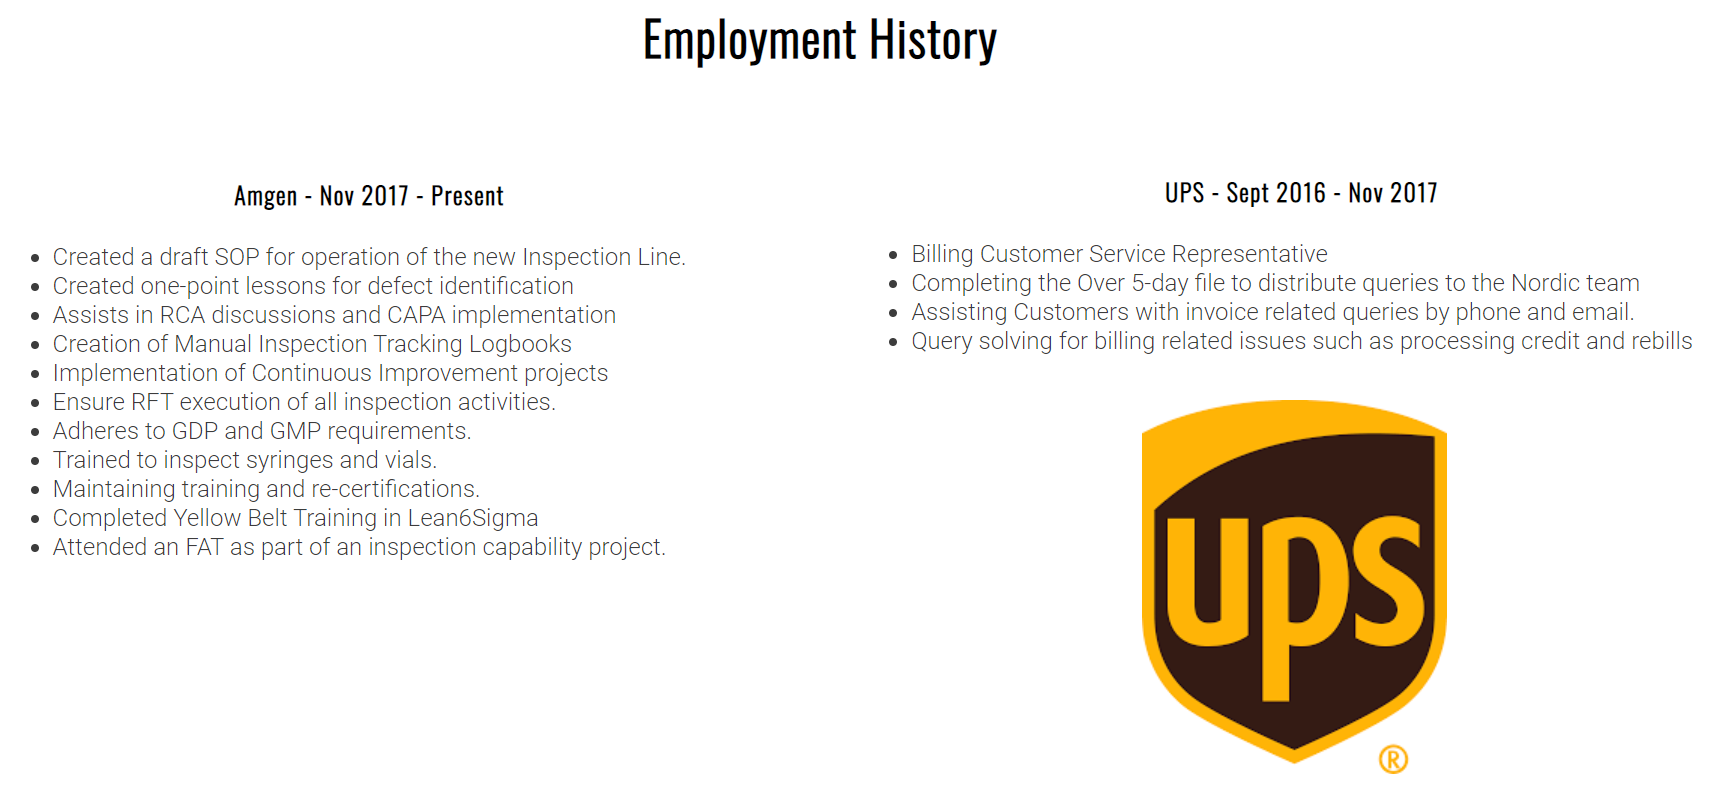
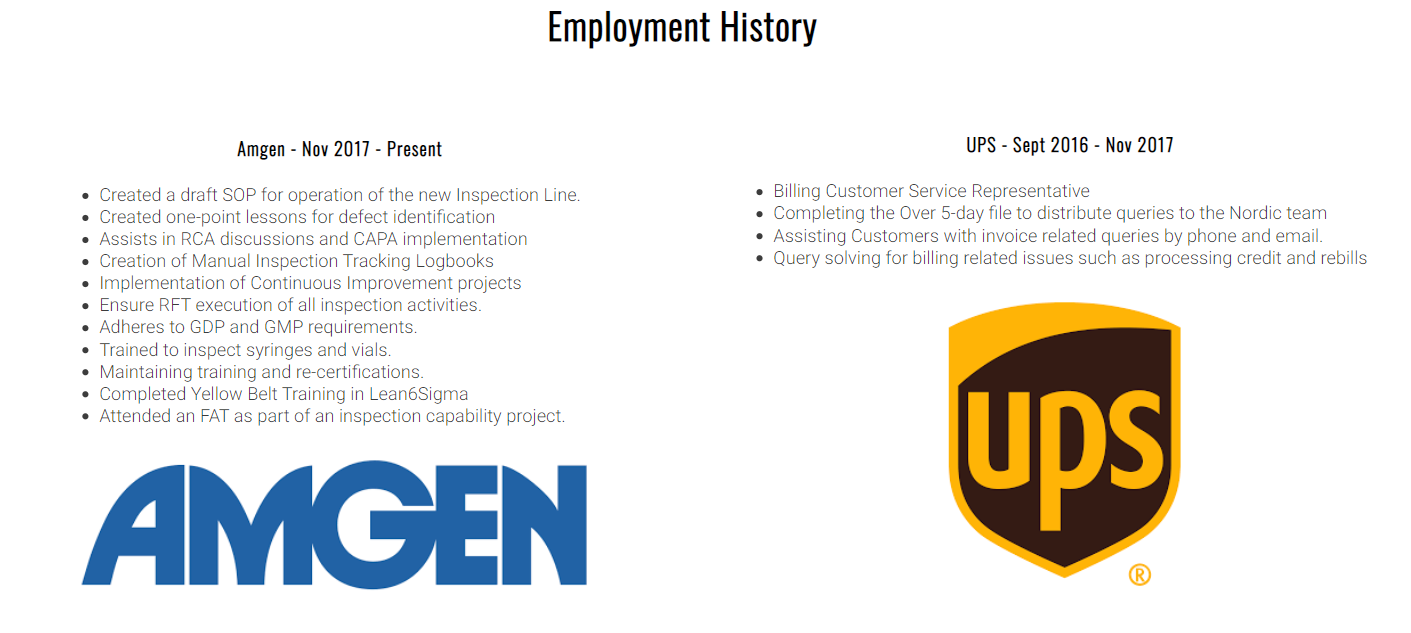
Updates made to images and readme file

diff --git a/assets/css/style.css b/assets/css/style.css
@@ -207,7 +207,6 @@ h5 {
 
 #socials li {
     list-style-type: none;
-    position: center;
     display: inline;
 }
 

diff --git a/README.md b/README.md
@@ -1,135 +1,88 @@
-<!-- TOC --><a name="portfolio_project_one"></a>
 # portfolio_project_one
 This is the repository of my first portfolio project. This project will focus on the use of both HTML and CSS.
 
-<!-- TOC start -->
-- [portfolio_project_one](#portfolio_project_one)
-- [Title: Online Resume ](#title-online-resume)
-  * [Features     ](#features)
-    + [Navigation Bar ->](#navigation-bar-)
-    + [Site logo ](#site-logo)
-    + [Home Page](#home-page)
-      - [Hero Image ](#hero-image)
-      - [About Me Section](#about-me-section)
-      - [Hobbies Section -> ](#hobbies-section-)
-    + [Footer Section -> ](#footer-section-)
-    + [History Page -> ](#history-page-)
-      - [Education section -> ](#education-section-)
-      - [Emplyment -> ](#emplyment-)
-    + [Contact Page -> ](#contact-page-)
-  * [Future Features](#future-features)
-  * [Testing:  ](#testing)
-    + [Validator Testing](#validator-testing)
-    + [Unfixed Bugs](#unfixed-bugs)
-  * [Deployment ](#deployment)
-  * [Credits ](#credits)
-    + [Content](#content)
-    + [Media](#media)
-  * [Wireframe ](#wireframe)
-<!-- TOC end -->
-
-<!-- TOC --><a name="title-online-resume"></a>
 # Title: Online Resume 
-Online Resume is a site that is designed to display an online version of my curriculum vitae. It is intended to target potential employers and recruiters. In this project I hope to accomplish a clear design and portrayal of some information about me, including an about me section, a brief employment history, a  summary of my previous education, a gallery of images showing my hobbies and finally a page allowing recruiters to contact me for my references. As I am looking to change career field, I am hoping this site will show prospective employers my skills as a software developer. 
+Online Resume is a site that is designed to display an online version of my curriculum vitae. It is intended to target potential employers and recruiters. In this project I hope to accomplish a clear design and portrayal of information about me, including an about me section, a brief employment history, a  summary of my previous education, a gallery of images showing my hobbies and finally a page allowing recruiters to contact me for my references. As I am looking to change career field, I am hoping this site will show prospective employers my skills as a software developer. 
 
-
-<!-- TOC --><a name="features"></a>
 ## Features     
-
-<!-- TOC --><a name="navigation-bar-"></a>
-### Navigation Bar ->
+### Navigation Bar
 This navigation bar will be featured on each of the three pages with active links to the Home Page, Experience Page and Contact Page. The section is designed to allow the user to navigate between pages in order to get a full image of my employment and education history as well as what interests I have outside of the workplace. 
 
-<!-- TOC --><a name="site-logo"></a>
 ### Site logo 
 As this is an online resume I chose the logo as 'Curriculum Vitae'
 
 <img src="assets/images/screenshots/headerandnav.png" alt="Screenshot of Nav bar and site logo with current page underlined">
 
-<!-- TOC --><a name="home-page"></a>
 ### Home Page
 
-<!-- TOC --><a name="hero-image"></a>
 #### Hero Image 
 
 <img src="assets/images/screenshots/herowithtext.png" alt="Screenshot of hero image with summary text on top">
 
-<!-- TOC --><a name="about-me-section"></a>
 #### About Me Section
  * This section is designed to give the user a brief description about me, my background and my hobbies. The user will be given an introduction to me and my reasons for my application. I have added a profile picture of myself a longside the description box. 
 
 <img src="assets/images/screenshots/personalprofile.png" alt="Screenshot of my Personal Profile Section">
 
-<!-- TOC --><a name="hobbies-section-"></a>
-#### Hobbies Section -> 
+#### Hobbies Section 
 - In this section I will display a collage of images showing examples of hobbies and interests I have outside of work. This section is designed showcase the variety of activities I take part in on my time off including field hockey, rock climbing and bouldering, and snowboarding.
  
 <img src="assets/images/screenshots/hobbies.png" alt="Screenshot of Extracurricular Activities Section">
 
-<!-- TOC --><a name="footer-section-"></a>
-### Footer Section -> 
+### Footer Section  
 - This section includes my Social Media Links including: Linked In and Instagram.These links are provided to give the user a glimpse of my professional and personal social media sites. 
 
 <img src="assets/images/screenshots/newfooter.png" alt="Screenshot of footer section of the site">
 
-<!-- TOC --><a name="history-page-"></a>
-### History Page -> 
+### History Page  
 - This page is divided into two sections education and employment.
 
-<!-- TOC --><a name="education-section-"></a>
-#### Education section -> 
+#### Education section  
 - This section contains a table showing the degrees I have obtained over the last few years as well as the university attended and the years of study. I added an image of Maynooth's South Campus as it was one of my favourite locations to study. 
 
 <img src="assets/images/screenshots/education.png" alt="Screenshot of the Education Section">
 
-<!-- TOC --><a name="emplyment-"></a>
-#### Emplyment -> 
+#### Emplyment 
 - This section is split into two columns, the first showing my current role in Amgen and the second my previous role in UPS. I have also added the UPS logo to balance the space on the page.  
 
 <img src="assets/images/screenshots/employment.png" alt="Screenshot of Employment Section">
 
-<!-- TOC --><a name="contact-page-"></a>
-### Contact Page -> 
+### Contact Page
 - This page contains a basic form that will allow users to fill in their first and last names, email address, a subject line, and brief message to request references or any further information. Each answer box has a prompt to fill in if a segment is left blank, and additionally the email address section requests that an @ sign is present.A background image was added to this page which is framed by the white header and footer sections.  
 
-<img src="assets/images/screenshots/contactpage.png" alt="Screenshot of top of the contact form page">
-<img src="assets/images/screenshots/submitbutton.png" alt="Screenshot of bottom of the contact form page">
+<img src="assets/images/screenshots/contactpage.png" alt="Screenshot of the contact form page">
 
-<!-- TOC --><a name="future-features"></a>
+
 ## Future Features
 -	Move the education and employment history to individual pages.
 -	Keep up-to-date with new information.
 -	Add new footer icon for links coding portfolio alongside social media links
 -   Add thank you page for submitting form. 
 
-<!-- TOC --><a name="testing"></a>
 ## Testing:  
 During the testing phase of the project I realised that not all elements were responsive. This led to the implementation of Flexbox. 
 **Add screenshots of different screen sizes using amiresponsive and responsinator ** 
 - using google chrome dev tools I tested the following screen sizes: 
     - iphone 5 
         - gallery goes to 1x1 and all elements stacked in center of page. 
-        - history page all elements stacked.
-    - width 1300+ 
-        - noted white space at side of hero image but this was fixed with updated media queries. 
+        - history page all elements stacked
+    - width 1300+
+        - noted white space at side of hero image <img src="assets/images/screenshots/width1300.png" alt="Image of white space surrounding hero image"> This was fixed with edits to media queries. 
             
 
-<!-- TOC --><a name="validator-testing"></a>
 ### Validator Testing
 -	HTML
     - There were no errors found when passing code through the official <a href="https://validator.w3.org/" target=_blank rel="noopener"> W3C validator</a>.<img  src="assets/images/screenshots/htmltesting.PNG" alt="Screengrab of HTML validation results">
 -	CSS
     - There were no issues found when passing code through the official <a href="https://jigsaw.w3.org/css-validator/" target=_blank rel="noopener"> W3C (Jigsaw) validator</a>.<img  src="assets/images/screenshots/CSSresults.PNG" alt="Screengrab of CSS testing results">
 -   Lighthouse score
-    - The lighthouse score for my site is 93% and was caluclated using the <a href="https://web.dev/measure/?gclid=CjwKCAiAksyNBhAPEiwAlDBeLNrgtDnjyshg858znb2oscLaGjVm-r0pRKtJ4wFMaV1Gg1nMQ7JXfBoCei4QAvD_BwE" target=_blank rel="noopener"> Lighthouse score </a> calculation site. <img  src="assets/images/screenshots/lighthouse-score.png" alt="Screengrab of lighthouse score breakdown">
+    - The lighthouse score for my site is 93 and was caluclated using the <a href="https://web.dev/measure/?gclid=CjwKCAiAksyNBhAPEiwAlDBeLNrgtDnjyshg858znb2oscLaGjVm-r0pRKtJ4wFMaV1Gg1nMQ7JXfBoCei4QAvD_BwE" target=_blank rel="noopener"> Lighthouse score </a> calculation site. <img  src="assets/images/screenshots/lighthouse-score.png" alt="Screengrab of lighthouse score breakdown">
 
 
-<!-- TOC --><a name="unfixed-bugs"></a>
 ### Unfixed Bugs
 - When testing site on larger screen sizes it is distorted on screens of 22" and above. 
-- Layout of personal profile section is not in line in larger screen sizes. 
+- 
 
-<!-- TOC --><a name="deployment"></a>
 ## Deployment 
 - The site was deployed to GitHub pages using the following steps:
     - Select GitHub repository.
@@ -139,9 +92,7 @@ During the testing phase of the project I realised that not all elements were re
     - Once selected a green banner appears with site URL indicating sucessful deployment. 
 
 
-<!-- TOC --><a name="credits"></a>
 ## Credits 
-<!-- TOC --><a name="content"></a>
 ### Content
 -  Code Institute 
     - Love Running Walkthrough 
@@ -155,11 +106,9 @@ During the testing phase of the project I realised that not all elements were re
     - <a href="https://css-tricks.com/snippets/css/a-guide-to-flexbox/" target="_blank" rel="noopener">CSS-tricks.com</a> was used to obtain more information about implementing flexbox to my site. 
     - <a href="https://dev.to/drews256/ridiculously-easy-row-and-column-layouts-with-flexbox-1k01" target="_blank" rel="noopener">DEV.to </a> was used to aid in the design and layout of the content using flexbox. 
 
-<!-- TOC --><a name="media"></a>
 ### Media
 - <a href="https://www.pexels.com/" target="_blank" rel="noopener">Pexels.com </a> was used to obtain the hero image, 4 of the 6 gallery photos, and the background image used on my contact form. 
 - <a href="https://fontawesome.com/" target="_blank" rel="noopener">Font Awesome</a> was used to obtain the social media icons used in the footer section of each page. 
 
-<!-- TOC --><a name="wireframe"></a>
 ## Wireframe 
 <img src="assets/images/screenshots/wireframe.jpg" alt="Screenshot of my wireframe">
